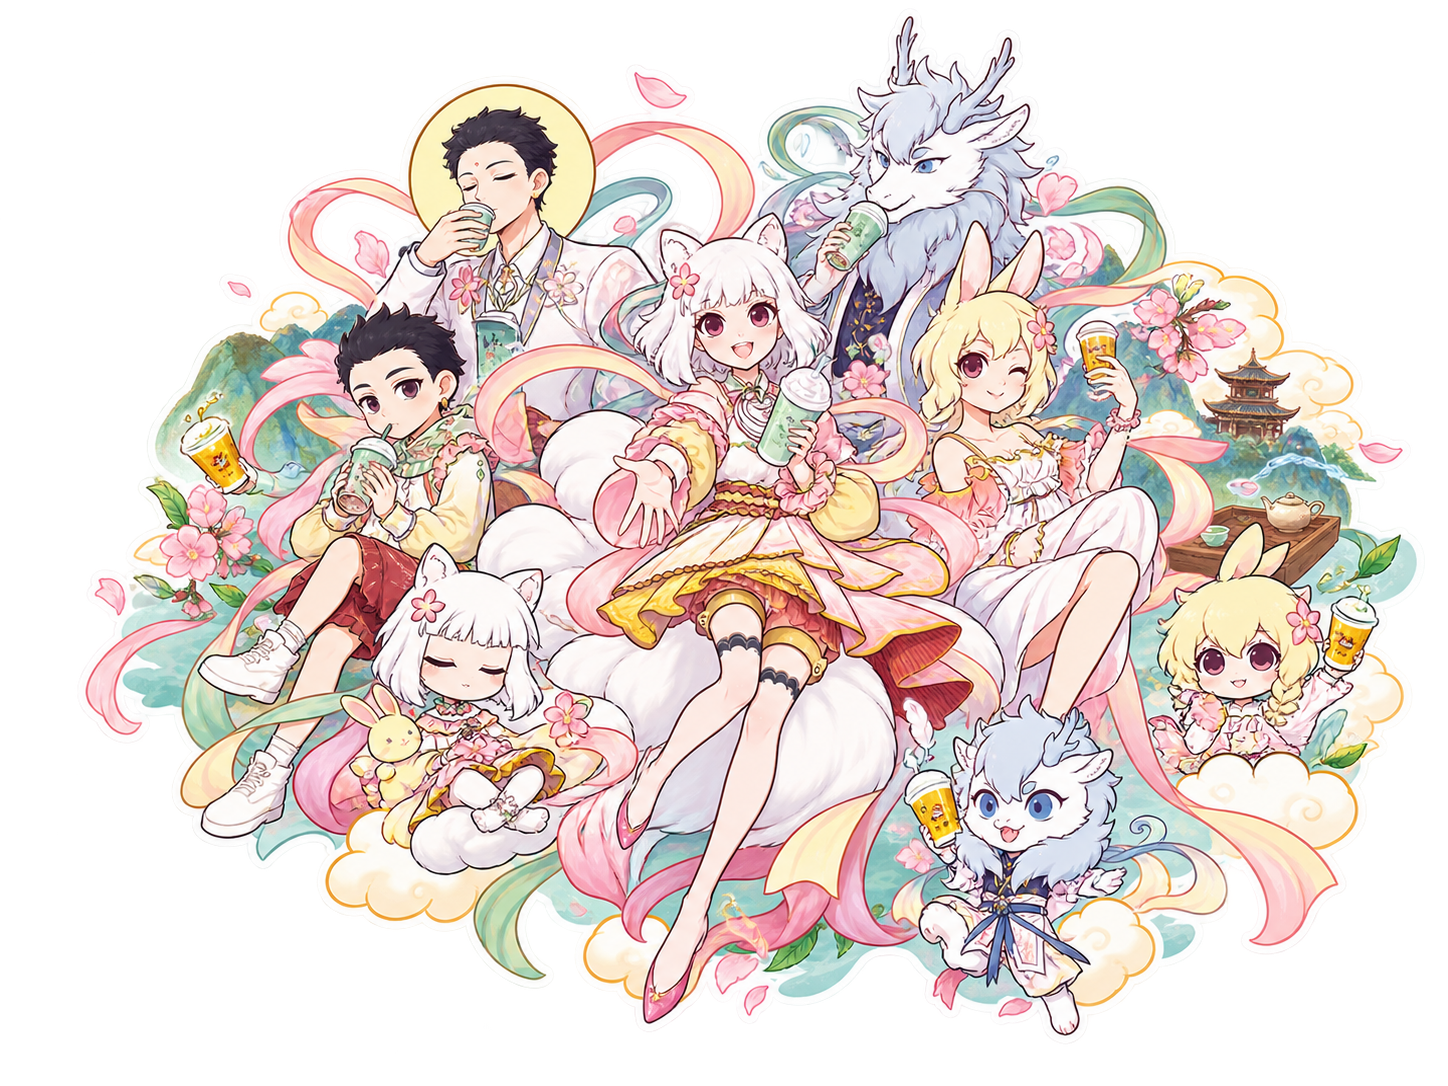
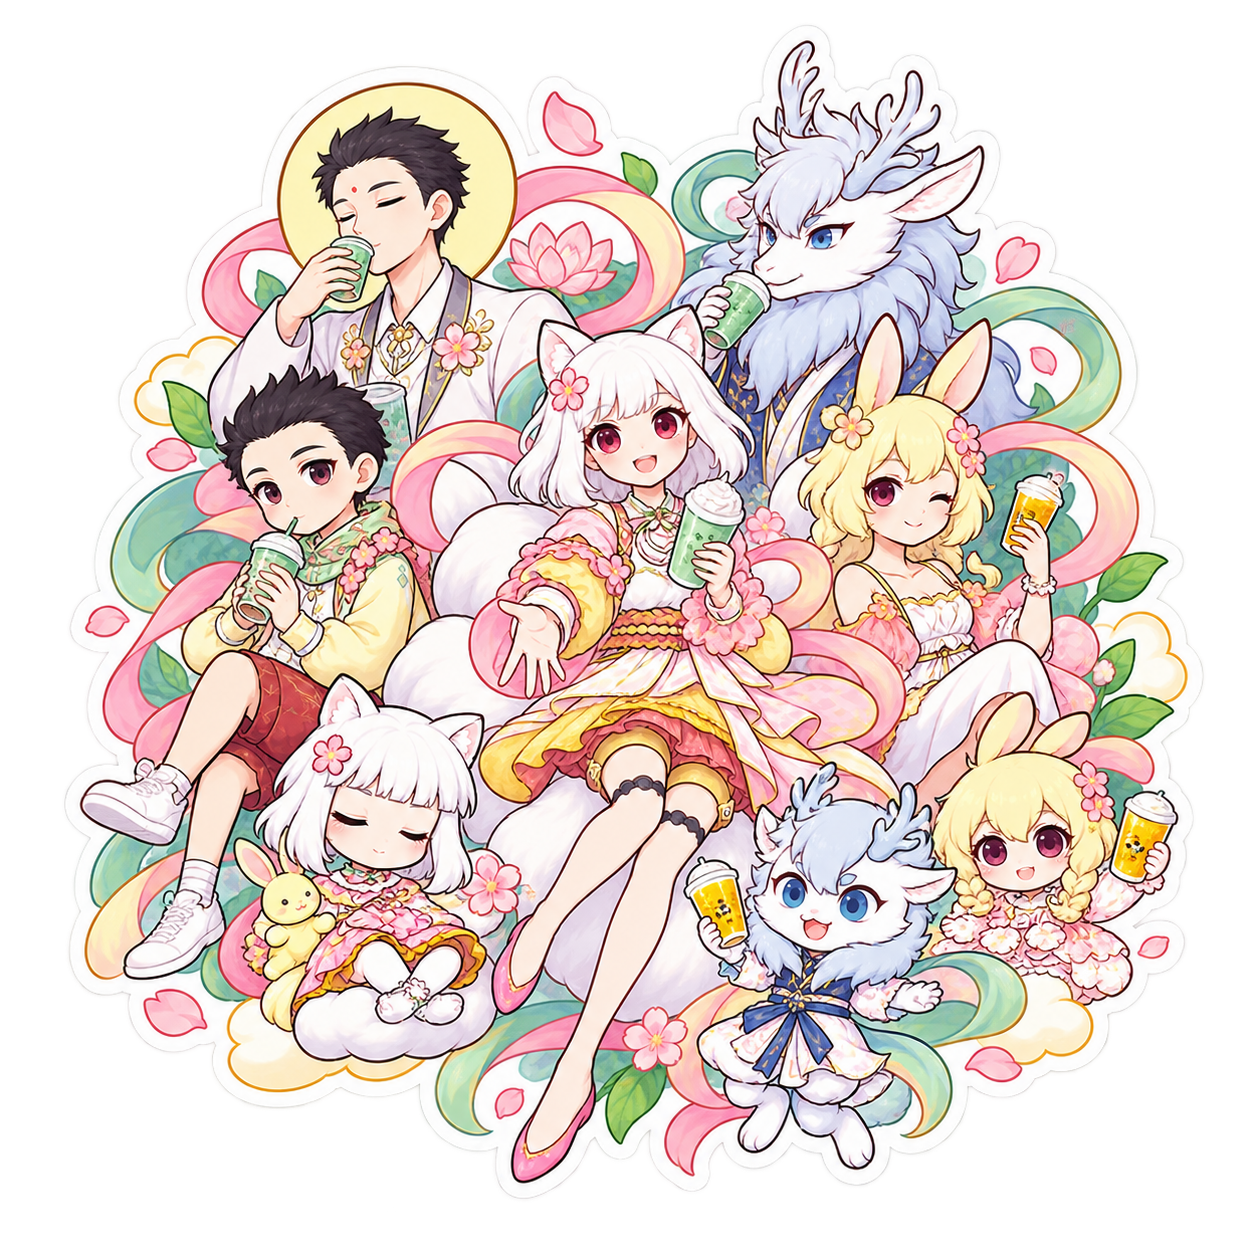
refactor: rebuild hero as floating project stickers

diff --git a/app/globals.css b/app/globals.css
@@ -80,55 +80,31 @@ button { color: inherit; font: inherit; }
   transform-origin: center;
 }
 body.overlay-open .hero-scene { filter: saturate(.7); transform: scale(.985); }
-.hero-copy { position: relative; z-index: 3; pointer-events: none; }
+.hero-copy { position: relative; z-index: 14; pointer-events: none; }
 .hero-copy > p:first-child { margin: 0 0 .75rem; font-size: .65rem; letter-spacing: .15em; }
 .hero-copy h1 { margin: 0; font-size: clamp(4rem, 11vw, 10.5rem); line-height: .78; letter-spacing: -.075em; }
 .hero-role { margin: 1.3rem 0 0; font-size: clamp(.95rem, 1.55vw, 1.35rem); font-weight: 650; }
 
-.sticker-field { position: absolute; inset: clamp(12.2rem, 26vh, 15rem) 1rem 2.3rem; }
+.sticker-field { position: absolute; inset: clamp(13rem, 25vh, 14rem) 1rem 2.8rem; }
 .project-sticker {
   position: absolute;
-  min-width: 9rem;
-  min-height: 7.5rem;
-  display: flex;
-  flex-direction: column;
-  justify-content: space-between;
-  padding: .85rem;
-  border: 1.5px solid var(--ink);
-  box-shadow: 4px 4px 0 var(--ink);
-  text-decoration: none;
-  transform: rotate(var(--r, 0deg));
-  transition: transform .22s ease, box-shadow .22s ease;
-}
-.project-sticker:hover, .project-sticker:focus-visible {
-  z-index: 10;
-  outline: 3px solid var(--ink);
-  outline-offset: 3px;
-  transform: translateY(-6px) rotate(var(--r, 0deg)) scale(1.02);
-  box-shadow: 8px 9px 0 var(--ink);
-}
-.sticker-index { font-size: .62rem; }
-.sticker-title { max-width: 14ch; font-size: clamp(.95rem, 1.45vw, 1.45rem); font-weight: 900; line-height: 1.05; }
-.sticker-subtitle { margin-top: .35rem; font-size: .66rem; }
-.sticker-cta { align-self: flex-end; margin-top: .65rem; font-size: .65rem; font-weight: 750; }
-.project-sticker.is-image-sticker {
+  z-index: 4;
   display: grid;
   grid-template-rows: minmax(0, 1fr) auto;
-  justify-content: stretch;
-  gap: .35rem;
+  gap: .22rem;
   padding: 0;
   border: 0;
   background: transparent;
   box-shadow: none;
   overflow: visible;
-}
-.project-sticker.is-image-sticker:hover,
-.project-sticker.is-image-sticker:focus-visible {
-  outline: none;
+  text-decoration: none;
   transform: rotate(var(--r, 0deg));
-  box-shadow: none;
+  transition: transform .24s ease;
 }
+.project-sticker:hover { z-index: 12; }
+.project-sticker:focus-visible { z-index: 12; outline: none; }
 .sticker-visual {
+  aspect-ratio: 1;
   min-height: 0;
   display: block;
   transition: transform .24s ease, filter .24s ease;
@@ -138,33 +114,41 @@ body.overlay-open .hero-scene { filter: saturate(.7); transform: scale(.985); }
   height: 100%;
   display: block;
   object-fit: contain;
-  filter: drop-shadow(0 .45rem .42rem rgba(24, 24, 20, .14));
+  filter: drop-shadow(0 .38rem .32rem rgba(24, 24, 20, .13));
 }
-.is-image-sticker:hover .sticker-visual,
-.is-image-sticker:focus-visible .sticker-visual { transform: translateY(-5px) scale(1.025); }
+.project-sticker:hover .sticker-visual,
+.project-sticker:focus-visible .sticker-visual {
+  transform: translateY(-5px) scale(1.025);
+  filter: drop-shadow(0 .55rem .4rem rgba(24, 24, 20, .17));
+}
 .sticker-label {
-  display: grid;
-  grid-template-columns: auto minmax(0, 1fr) auto;
-  align-items: end;
-  gap: .6rem;
-  padding-top: .38rem;
-  border-top: 1px solid var(--ink);
+  min-width: 0;
+  display: flex;
+  align-items: flex-end;
+  justify-content: space-between;
+  gap: .45rem;
 }
-.sticker-label .sticker-index { align-self: start; }
 .sticker-meta { min-width: 0; display: flex; flex-direction: column; }
-.sticker-label .sticker-title { max-width: none; font-size: clamp(.82rem, 1.15vw, 1.08rem); }
-.sticker-label .sticker-subtitle { margin-top: .18rem; }
-.sticker-label .sticker-cta { margin: 0; white-space: nowrap; transition: transform .24s ease; }
-.is-image-sticker:hover .sticker-cta,
-.is-image-sticker:focus-visible .sticker-cta { transform: translateX(3px); text-decoration: underline; text-underline-offset: .2rem; }
-.is-image-sticker:focus-visible .sticker-label { outline: 2px solid var(--ink); outline-offset: 3px; }
-.sticker-split-fiction { --r: -1deg; left: 34%; top: 4%; width: clamp(25rem, 42vw, 39rem); height: min(48vh, 27rem); }
-.sticker-playstation-frontline { --r: 4deg; right: 2%; top: 0; width: clamp(13rem, 20vw, 21rem); height: min(20vh, 11rem); background: var(--blue); }
-.sticker-feirenzai { --r: -2deg; left: 2%; bottom: 0; width: clamp(18rem, 26vw, 25rem); height: min(36vh, 21rem); }
-.sticker-summer-tea { --r: 1.5deg; right: 2%; bottom: 0; width: clamp(18rem, 26vw, 25rem); height: min(36vh, 21rem); }
-.sticker-puppy-snake { --r: 5deg; left: 19%; top: 3%; width: clamp(12rem, 16vw, 15rem); height: min(17vh, 9.5rem); background: var(--pink); }
-.sticker-star-ember { --r: -4deg; left: 57%; bottom: 0; width: clamp(12rem, 16vw, 15rem); height: min(17vh, 9.5rem); background: var(--lilac); }
-.sticker-pragmata { --r: 7deg; left: 3%; top: 0; width: clamp(9rem, 12vw, 11rem); height: min(15vh, 8rem); background: var(--mint); }
+.sticker-title { font-size: clamp(.72rem, .92vw, .98rem); font-weight: 900; line-height: 1.12; }
+.sticker-subtitle { margin-top: .16rem; font-size: clamp(.52rem, .58vw, .66rem); white-space: nowrap; }
+.sticker-cta { flex: 0 0 auto; font-size: .55rem; font-weight: 750; white-space: nowrap; opacity: .42; transition: opacity .24s ease, transform .24s ease; }
+.project-sticker:hover .sticker-cta,
+.project-sticker:focus-visible .sticker-cta { opacity: 1; transform: translateX(3px); }
+.project-sticker:focus-visible .sticker-label { outline: 2px solid var(--ink); outline-offset: 3px; }
+.sticker-split-fiction {
+  --r: -1deg;
+  z-index: 8;
+  left: 50%;
+  top: 1%;
+  width: clamp(23rem, min(34vw, 54vh), 31rem);
+  translate: -50% 0;
+}
+.sticker-playstation-frontline { --r: -3deg; z-index: 6; left: 3.5%; top: 1%; width: clamp(13.5rem, min(18.5vw, 30vh), 17rem); }
+.sticker-feirenzai { --r: 2deg; z-index: 6; left: .5%; bottom: 0; width: clamp(13rem, min(18vw, 29vh), 16.5rem); }
+.sticker-summer-tea { --r: -1.5deg; z-index: 6; right: .8%; bottom: 0; width: clamp(13rem, min(18vw, 29vh), 16.5rem); }
+.sticker-puppy-snake { --r: 4deg; left: 22%; top: 2%; width: clamp(9.5rem, min(12.8vw, 23vh), 12rem); }
+.sticker-star-ember { --r: -3deg; left: 66.5%; bottom: 1%; width: clamp(9.75rem, min(13.5vw, 24vh), 12.5rem); }
+.sticker-pragmata { --r: 3deg; right: 18%; top: 1%; width: clamp(9rem, min(12vw, 22vh), 11.5rem); }
 .home-contact { position: absolute; z-index: 20; right: clamp(1.25rem, 3.4vw, 3.75rem); bottom: .9rem; font-size: .62rem; letter-spacing: .08em; text-decoration: none; }
 .home-contact:hover { text-decoration: underline; text-underline-offset: .25rem; }
 
@@ -364,44 +348,33 @@ body.overlay-open .hero-scene { filter: saturate(.7); transform: scale(.985); }
   .hero-copy h1 { font-size: clamp(3.25rem, 18vw, 5rem); }
   .hero-role { margin-top: .7rem; font-size: .78rem; }
   .sticker-field {
-    inset: 10.7rem .75rem 5rem;
-    display: grid;
-    grid-template-columns: repeat(2, minmax(0, 1fr));
-    grid-template-rows: 1.25fr repeat(3, 1fr);
-    gap: .45rem;
+    inset: 9.8rem .65rem 4.9rem;
+    display: block;
   }
   .project-sticker {
-    position: relative;
+    position: absolute;
     inset: auto;
-    width: auto;
-    height: auto;
     min-width: 0;
     min-height: 0;
-    padding: .5rem;
-    transform: none;
-    box-shadow: 2px 2px 0 var(--ink);
+    translate: none;
     animation-name: enter-mobile;
   }
-  .project-sticker:hover, .project-sticker:focus-visible { transform: translateY(-2px); box-shadow: 3px 4px 0 var(--ink); }
-  .project-sticker.is-image-sticker {
-    grid-template-rows: minmax(0, 1fr) auto;
-    gap: .2rem;
-    padding: 0;
-    box-shadow: none;
-  }
-  .project-sticker.is-image-sticker:hover,
-  .project-sticker.is-image-sticker:focus-visible { transform: none; box-shadow: none; }
-  .sticker-label { grid-template-columns: auto minmax(0, 1fr); gap: .3rem; padding-top: .2rem; }
-  .sticker-label .sticker-title { font-size: clamp(.68rem, 3vw, .82rem); white-space: nowrap; }
-  .sticker-label .sticker-subtitle { font-size: .48rem; white-space: nowrap; }
-  .sticker-label .sticker-cta { grid-column: 2; justify-self: start; font-size: .48rem; }
-  .sticker-split-fiction { grid-column: 1 / -1; }
-  .sticker-playstation-frontline, .sticker-feirenzai, .sticker-summer-tea,
-  .sticker-puppy-snake, .sticker-star-ember, .sticker-pragmata { grid-column: auto; }
-  .sticker-title { font-size: clamp(.78rem, 3.6vw, 1rem); }
-  .sticker-subtitle { margin-top: .15rem; font-size: .55rem; }
-  .sticker-index, .sticker-cta { font-size: .52rem; }
-  .sticker-cta { margin-top: .2rem; }
+  .project-sticker:hover .sticker-visual,
+  .project-sticker:focus-visible .sticker-visual { transform: translateY(-2px) scale(1.015); }
+  .sticker-label { display: block; }
+  .sticker-title { font-size: .62rem; line-height: 1.08; }
+  .sticker-subtitle { margin-top: .1rem; font-size: .47rem; white-space: normal; }
+  .sticker-cta { display: none; }
+  .sticker-split-fiction { left: 50%; top: 0; width: 13.6rem; translate: -50% 0; }
+  .sticker-split-fiction .sticker-label { text-align: center; }
+  .sticker-split-fiction .sticker-title { font-size: .78rem; }
+  .sticker-split-fiction .sticker-subtitle { font-size: .53rem; }
+  .sticker-playstation-frontline { left: 0; top: 9.4rem; width: 7.35rem; }
+  .sticker-feirenzai { right: 0; top: 9.8rem; width: 7.35rem; }
+  .sticker-summer-tea { left: 0; top: 19rem; width: 7.35rem; }
+  .sticker-puppy-snake { right: .45rem; top: 19.2rem; width: 6.15rem; }
+  .sticker-star-ember { left: 1.4rem; top: 28.35rem; width: 6.15rem; }
+  .sticker-pragmata { right: 1.35rem; top: 28rem; width: 6.15rem; }
   .home-contact { display: none; }
   @keyframes enter-mobile { from { opacity: 0; transform: translateY(7px); } to { opacity: 1; transform: translateY(0); } }
 
@@ -444,7 +417,7 @@ body.overlay-open .hero-scene { filter: saturate(.7); transform: scale(.985); }
 
 @media (max-width: 390px) {
   .hero-copy h1 { font-size: 17.5vw; }
-  .sticker-field { top: 10rem; }
+  .sticker-field { top: 9.8rem; }
   .detail-back { font-size: .7rem; }
 }
 

diff --git a/app/page.jsx b/app/page.jsx
@@ -22,38 +22,26 @@ export default function Home() {
             <Link
               key={project.slug}
               href={`/projects/${project.slug}`}
-              className={`project-sticker sticker-${project.slug}${project.heroImage ? ' is-image-sticker' : ''}`}
+              className={`project-sticker sticker-${project.slug}`}
               aria-label={`查看项目：${project.title}`}
               style={{ animationDelay: `${150 + index * 65}ms` }}
             >
-              {project.heroImage ? (
-                <>
-                  <span className="sticker-visual">
-                    <img
-                      src={project.heroImage}
-                      alt={project.heroAlt}
-                      loading="eager"
-                      decoding="async"
-                      fetchPriority={project.slug === 'split-fiction' ? 'high' : 'auto'}
-                    />
-                  </span>
-                  <span className="sticker-label">
-                    <span className="sticker-index">{project.index}</span>
-                    <span className="sticker-meta">
-                      <span className="sticker-title">{project.title}</span>
-                      <span className="sticker-subtitle">{project.subtitle}</span>
-                    </span>
-                    <span className="sticker-cta">查看项目 ↗</span>
-                  </span>
-                </>
-              ) : (
-                <>
-                  <span className="sticker-index">{project.index}</span>
+              <span className="sticker-visual">
+                <img
+                  src={project.heroImage}
+                  alt={project.heroAlt}
+                  loading="eager"
+                  decoding="async"
+                  fetchPriority={project.slug === 'split-fiction' ? 'high' : 'auto'}
+                />
+              </span>
+              <span className="sticker-label">
+                <span className="sticker-meta">
                   <span className="sticker-title">{project.title}</span>
                   <span className="sticker-subtitle">{project.subtitle}</span>
-                  <span className="sticker-cta">查看项目 ↗</span>
-                </>
-              )}
+                </span>
+                <span className="sticker-cta" aria-hidden="true">查看项目 ↗</span>
+              </span>
             </Link>
           ))}
         </div>

diff --git a/app/data/projects.js b/app/data/projects.js
@@ -21,6 +21,8 @@ export const projects = [
     slug: 'playstation-frontline',
     title: 'PlayStation 玩家前线',
     subtitle: '内容运营 / 社媒策划',
+    heroImage: '/assets/hero/playstation-frontline.png',
+    heroAlt: 'PlayStation 玩家前线项目视觉',
     tier: 'large',
     category: '内容运营',
     overview: '搭建面向 C 端玩家的内容框架，持续完成选题、脚本文案与数据复盘。',
@@ -67,6 +69,8 @@ export const projects = [
     slug: 'puppy-snake',
     title: '小狗蛇 × 茶话弄',
     subtitle: '春节联名 / 整合营销',
+    heroImage: '/assets/hero/snake-dog-tea.png',
+    heroAlt: '小狗蛇 × 茶话弄项目视觉',
     tier: 'medium',
     category: '春节整合营销',
     overview: '参与春节 IP 合作与整合传播，联动数字内容、社媒与线下漫展。',
@@ -81,6 +85,8 @@ export const projects = [
     slug: 'star-ember',
     title: '星烬·烛耀山海',
     subtitle: '发行上线 / PV 策划',
+    heroImage: '/assets/hero/vanishing-starlight.png',
+    heroAlt: '星烬·烛耀山海项目视觉',
     tier: 'medium',
     category: '游戏发行',
     overview: '负责多平台商店页面、核心卖点与发行期内容，并参与宣传 PV 策划。',
@@ -95,6 +101,8 @@ export const projects = [
     slug: 'pragmata',
     title: 'PRAGMATA',
     subtitle: '商品发行 / 周边监修',
+    heroImage: '/assets/hero/pragmata.png',
+    heroAlt: 'PRAGMATA 项目视觉',
     tier: 'small',
     category: '实体商品发行',
     overview: '参与港版实体商品与随盘赠品开发，对接 CAPCOM 完成审核及周边监修。',
